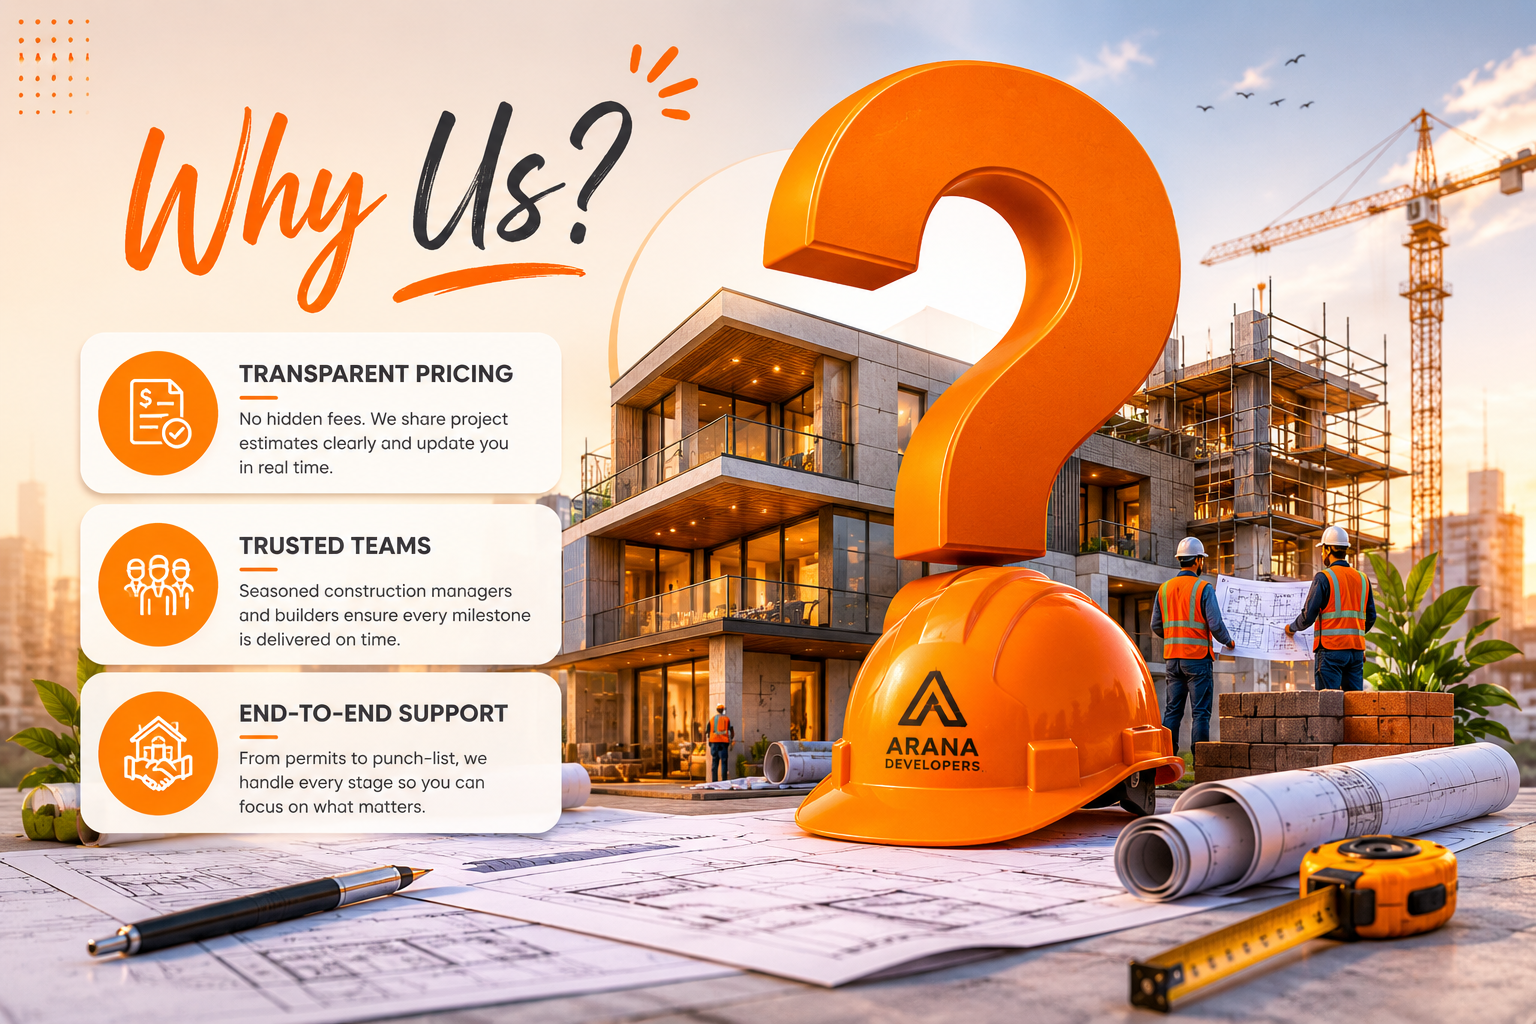
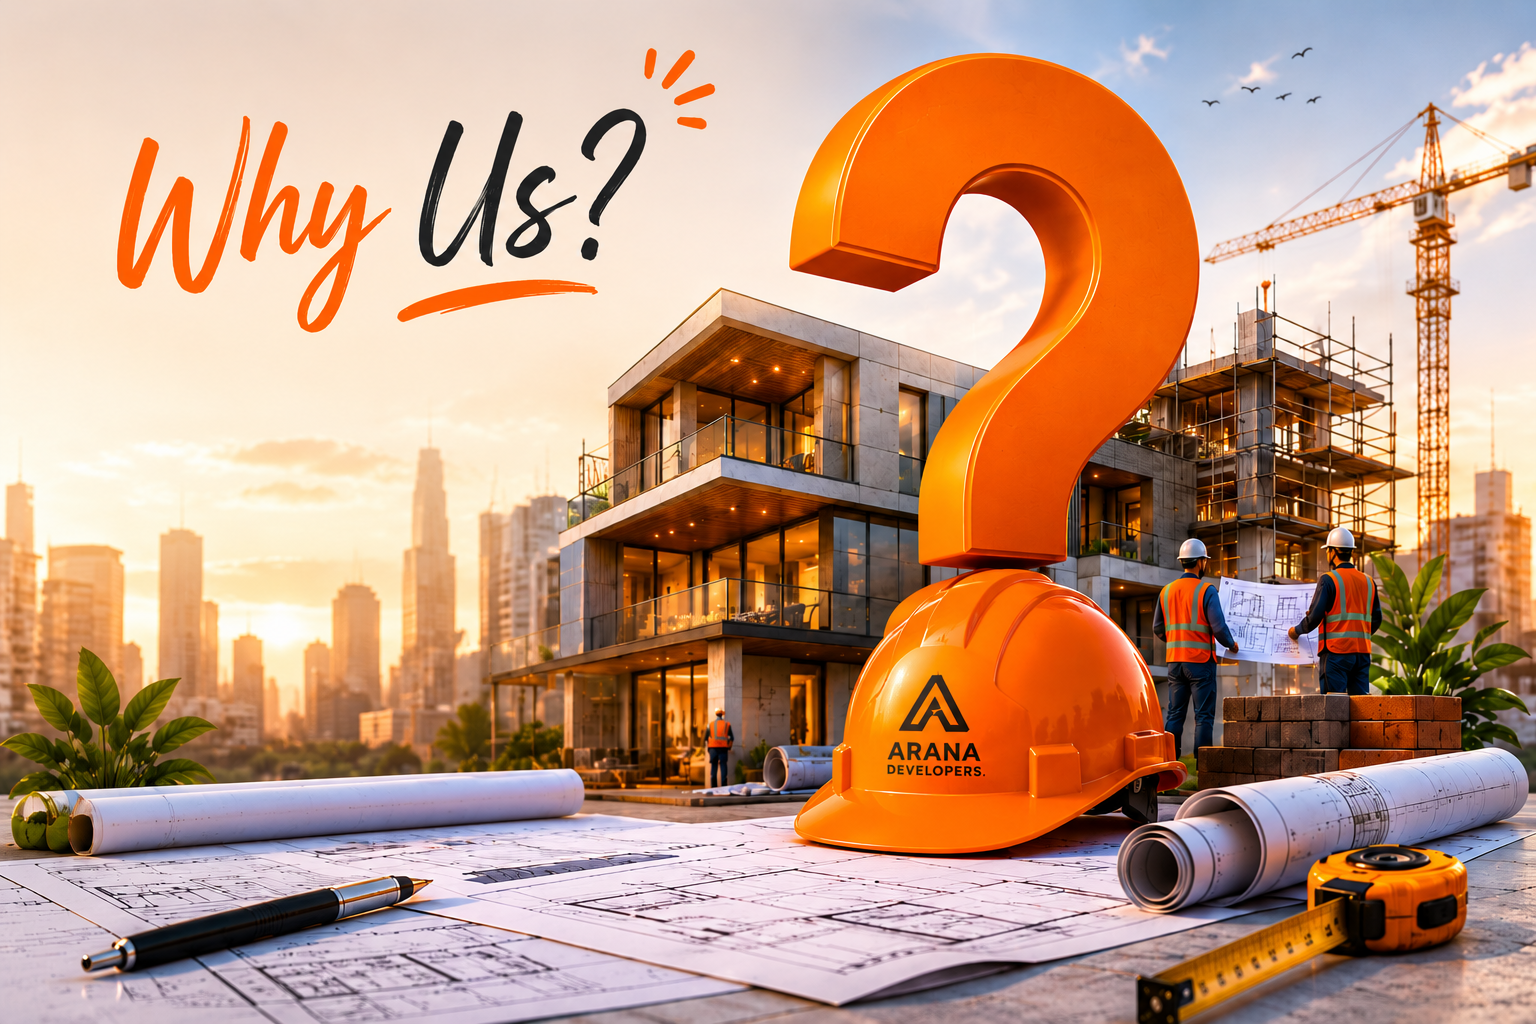
forms updated connected to google forms

diff --git a/public/css/styles.css b/public/css/styles.css
@@ -152,22 +152,18 @@ button { cursor: pointer; }
 .brand-logo {
   display: inline-flex;
   align-items: center;
-  gap: 0.9rem;
+  gap: 0.75rem;
   text-decoration: none;
   color: var(--secondary);
 }
 
-.brand-mark {
-  width: 44px;
-  height: 44px;
-  border-radius: 14px;
-  display: grid;
-  place-items: center;
-  background: var(--primary);
-  color: #fff;
-  font-weight: 700;
-  font-family: var(--font-heading);
-  font-size: 1.3rem;
+.brand-logo-img {
+  height: 50px;
+  margin-top: 10px;
+  width: auto;
+  display: block;
+  /* newlogo.png is white-on-black — invert to dark for light header */
+  /* filter: invert(1); */
 }
 
 .brand-logo strong {
@@ -1379,8 +1375,56 @@ h4, h5, h6 {
 .whatsapp-link { color: #25D366; font-weight: 600; text-decoration: none; transition: opacity 0.2s; }
 .whatsapp-link:hover { opacity: 0.8; }
 
+/* ── Contact social follow row ───────────────── */
+.contact-social-row strong {
+  display: block;
+  font-size: 0.78rem;
+  text-transform: uppercase;
+  letter-spacing: 0.1em;
+  color: var(--muted);
+  margin-bottom: 0.55rem;
+  font-family: var(--font-body);
+  font-weight: 600;
+}
+
+.contact-social-icons {
+  display: flex;
+  gap: 0.75rem;
+  align-items: center;
+}
+
+.contact-social-btn {
+  display: inline-flex;
+  align-items: center;
+  gap: 0.45rem;
+  padding: 0.45rem 0.9rem 0.45rem 0.7rem;
+  border-radius: 999px;
+  border: 1.5px solid rgba(17,17,17,0.1);
+  text-decoration: none;
+  font-size: 0.82rem;
+  font-weight: 600;
+  font-family: var(--font-body);
+  color: var(--muted);
+  background: transparent;
+  transition: color 0.22s ease, border-color 0.22s ease, background 0.22s ease, box-shadow 0.22s ease;
+}
+
+.contact-social-insta:hover {
+  color: #fff;
+  border-color: transparent;
+  background: linear-gradient(45deg, #f09433, #e6683c, #dc2743, #cc2366, #bc1888);
+  box-shadow: 0 4px 16px rgba(220, 39, 67, 0.3);
+}
+
+.contact-social-fb:hover {
+  color: #fff;
+  border-color: transparent;
+  background: #1877F2;
+  box-shadow: 0 4px 16px rgba(24, 119, 242, 0.3);
+}
+
 .contact-form-panel {
-  background: #fff;
+  background: linear-gradient(175deg, #f5f3ef 0%, #ffffff 38%);
   border-radius: 28px;
   padding: 2.5rem;
   box-shadow: var(--shadow);

diff --git a/public/index.html b/public/index.html
@@ -46,16 +46,12 @@
           <p>Get a tailored consultation and fast-track your sustainable build with Arana Developers.</p>
         </div>
         <form id="leadForm" class="lead-form">
-          <label>Name<input type="text" name="name" placeholder="Enter your full name" required /></label>
-          <label>Phone or Email<input type="text" name="contact" placeholder="e.g. [email redacted] or [phone redacted]" required /></label>
-          <label>Project type
-            <select name="projectType">
-              <option value="residential">Residential</option>
-              <option value="commercial">Commercial</option>
-              <option value="industrial">Industrial</option>
-            </select>
-          </label>
-          <label>Notes<textarea name="notes" rows="3" placeholder="Describe your project goals or timeline"></textarea></label>
+          <label>Name *<input type="text" name="entry.1753477689" placeholder="Enter your full name" required /></label>
+          <label>Mobile Number *<input type="tel" name="entry.[phone redacted]" placeholder="[phone redacted]" required /></label>
+          <label>E-mail *<input type="email" name="entry.1239744766" placeholder="[email redacted]" required /></label>
+          <label>Plot Location *<input type="text" name="entry.456832565" placeholder="e.g. Anna Nagar, Chennai" required /></label>
+          <label>Plot Size (Sq.ft) *<input type="number" name="entry.446645636" placeholder="e.g. 1200" min="1" required /></label>
+          <label>Notes<textarea name="entry.614174494" rows="3" placeholder="Any additional details or requirements"></textarea></label>
           <button type="submit" class="btn btn-primary">Request Quote</button>
           <p class="form-feedback" id="leadFeedback"></p>
         </form>
@@ -66,7 +62,7 @@
     <header class="site-header" id="siteHeader">
       <div class="container header-inner">
         <a href="#home" class="brand-logo">
-          <span class="brand-mark">A</span>
+          <img src="images/logo.png" alt="AD" class="brand-logo-img" />
           <div>
             <strong>Arana Developers</strong>
             <small>Eco Griha</small>
@@ -933,13 +929,35 @@
               <div><strong>WhatsApp</strong>
                 <a href="https://wa.me/[phone redacted]" class="whatsapp-link" target="_blank" rel="noopener noreferrer">Chat with us on WhatsApp →</a>
               </div>
+              <div class="contact-social-row">
+                <strong>Follow Us</strong>
+                <div class="contact-social-icons">
+                  <a href="#" class="contact-social-btn contact-social-insta" aria-label="Instagram" target="_blank" rel="noopener noreferrer">
+                    <svg viewBox="0 0 24 24" fill="none" stroke="currentColor" stroke-width="1.8" stroke-linecap="round" stroke-linejoin="round" width="18" height="18">
+                      <rect x="2" y="2" width="20" height="20" rx="5" ry="5"/>
+                      <circle cx="12" cy="12" r="4"/>
+                      <circle cx="17.5" cy="6.5" r="0.5" fill="currentColor" stroke="none"/>
+                    </svg>
+                    <span>Instagram</span>
+                  </a>
+                  <a href="#" class="contact-social-btn contact-social-fb" aria-label="Facebook" target="_blank" rel="noopener noreferrer">
+                    <svg viewBox="0 0 24 24" fill="currentColor" width="18" height="18">
+                      <path d="M18 2h-3a5 5 0 0 0-5 5v3H7v4h3v8h4v-8h3l1-4h-4V7a1 1 0 0 1 1-1h3z"/>
+                    </svg>
+                    <span>Facebook</span>
+                  </a>
+                </div>
+              </div>
             </div>
           </div>
           <div class="contact-form-panel reveal-right">
             <form id="contactForm" class="contact-form">
-              <label>Full Name<input type="text" name="name" placeholder="Your name" required /></label>
-              <label>Email Address<input type="email" name="email" placeholder="[email redacted]" required /></label>
-              <label>Project Details<textarea name="message" rows="5" placeholder="Share a few details about your project" required></textarea></label>
+              <label>Full Name *<input type="text" name="entry.1753477689" placeholder="Your name" required /></label>
+              <label>Mobile Number *<input type="tel" name="entry.[phone redacted]" placeholder="[phone redacted]" required /></label>
+              <label>E-mail *<input type="email" name="entry.1239744766" placeholder="[email redacted]" required /></label>
+              <label>Plot Location *<input type="text" name="entry.456832565" placeholder="e.g. Anna Nagar, Chennai" required /></label>
+              <label>Plot Size (Sq.ft) *<input type="number" name="entry.446645636" placeholder="e.g. 1200" min="1" required /></label>
+              <label>Notes<textarea name="entry.614174494" rows="4" placeholder="Share a few details about your project"></textarea></label>
               <button type="submit" class="btn btn-primary">Send Message</button>
               <p class="form-feedback" id="formFeedback"></p>
             </form>

diff --git a/public/js/script.js b/public/js/script.js
@@ -139,15 +139,27 @@ leadModalBackdrop.addEventListener('click', (event) => {
 leadForm.addEventListener('submit', (event) => {
   event.preventDefault();
   const formData = new FormData(leadForm);
-  const name = formData.get('name').trim();
-  const contact = formData.get('contact').trim();
 
-  if (!name || !contact) {
-    leadFeedback.textContent = 'Please provide your name and preferred contact method.';
+  const name = formData.get('entry.1753477689').trim();
+  const mobile = formData.get('entry.[phone redacted]').trim();
+  const email = formData.get('entry.1239744766').trim();
+  const location = formData.get('entry.456832565').trim();
+  const plotSize = formData.get('entry.446645636').trim();
+
+  if (!name || !mobile || !email || !location || !plotSize) {
+    leadFeedback.textContent = 'Please fill in all required fields.';
     return;
   }
 
-  leadFeedback.textContent = 'Thank you! Someone from Arana Developers will follow up shortly.';
+  const googleFormURL = 'https://docs.google.com/forms/d/e/1FAIpQLScSspaKZgLFzDcmJR0707y3I_NXyXzO--W9xwSE_3y-aX5kZw/formResponse';
+  const params = new URLSearchParams(formData);
+
+  fetch(`${googleFormURL}?${params.toString()}`, {
+    method: 'GET',
+    mode: 'no-cors',
+  }).catch(() => {});
+
+  leadFeedback.textContent = '✓ Thank you! Someone from Arana Developers will follow up shortly.';
   leadForm.reset();
   setTimeout(closeLeadModal, 1800);
 });
@@ -166,14 +178,25 @@ faqItems.forEach((item) => {
 contactForm.addEventListener('submit', (event) => {
   event.preventDefault();
   const formData = new FormData(contactForm);
-  const name = formData.get('name').trim();
-  const email = formData.get('email').trim();
-  const message = formData.get('message').trim();
 
-  if (!name || !email || !message) {
-    formFeedback.textContent = 'Please complete all fields before submitting.';
+  const name = formData.get('entry.1753477689').trim();
+  const mobile = formData.get('entry.[phone redacted]').trim();
+  const email = formData.get('entry.1239744766').trim();
+  const location = formData.get('entry.456832565').trim();
+  const plotSize = formData.get('entry.446645636').trim();
+
+  if (!name || !mobile || !email || !location || !plotSize) {
+    formFeedback.textContent = 'Please complete all required fields before submitting.';
     return;
   }
+
+  const googleFormURL = 'https://docs.google.com/forms/d/e/1FAIpQLScSspaKZgLFzDcmJR0707y3I_NXyXzO--W9xwSE_3y-aX5kZw/formResponse';
+  const params = new URLSearchParams(formData);
+
+  fetch(`${googleFormURL}?${params.toString()}`, {
+    method: 'GET',
+    mode: 'no-cors',
+  }).catch(() => {});
 
   formFeedback.textContent = '✓ Thanks! Your request has been sent. We will reach out soon.';
   contactForm.reset();